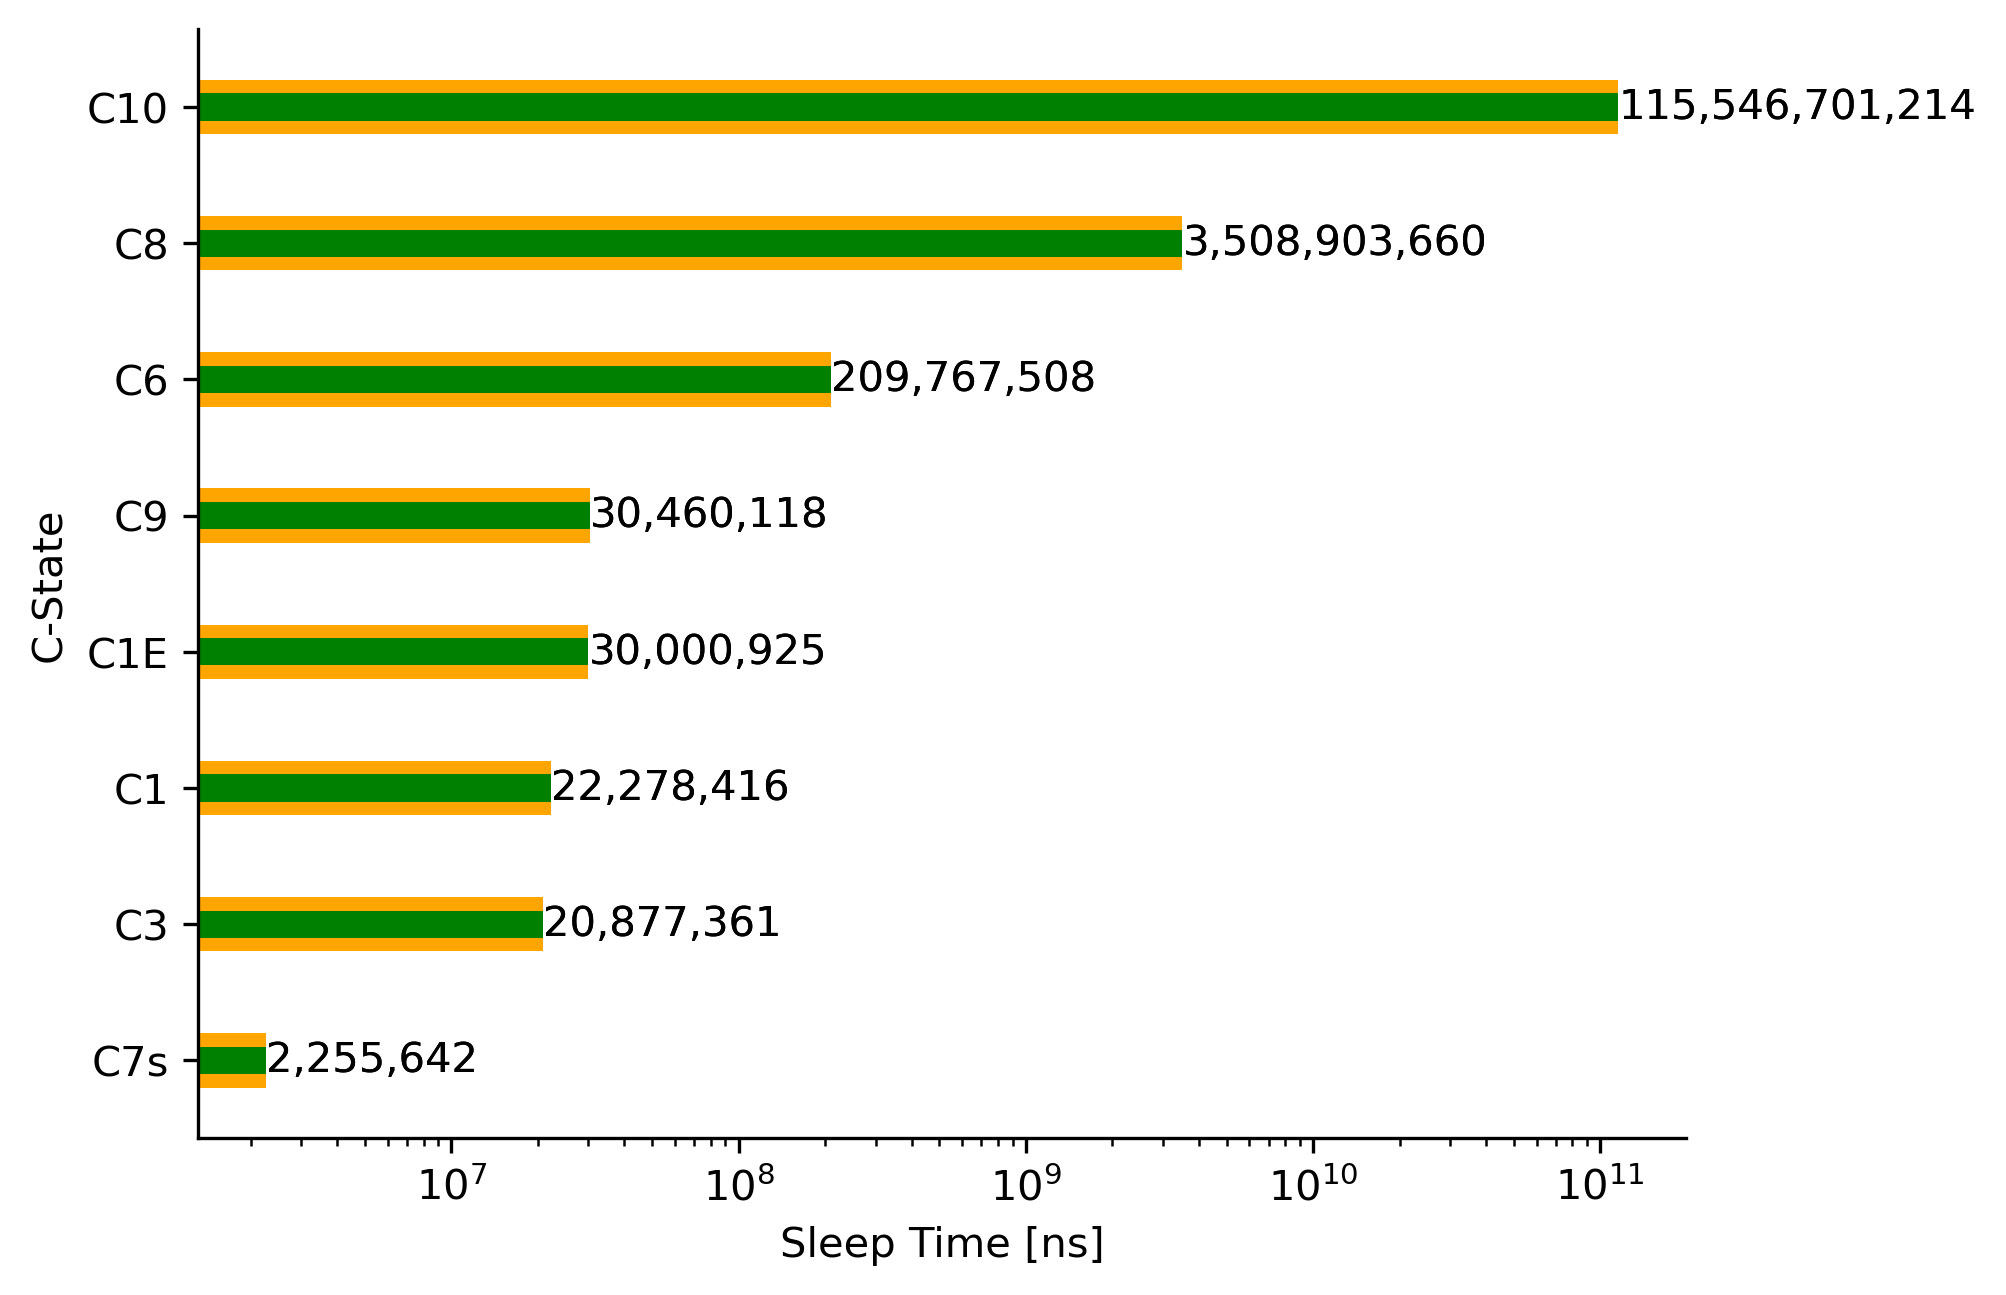
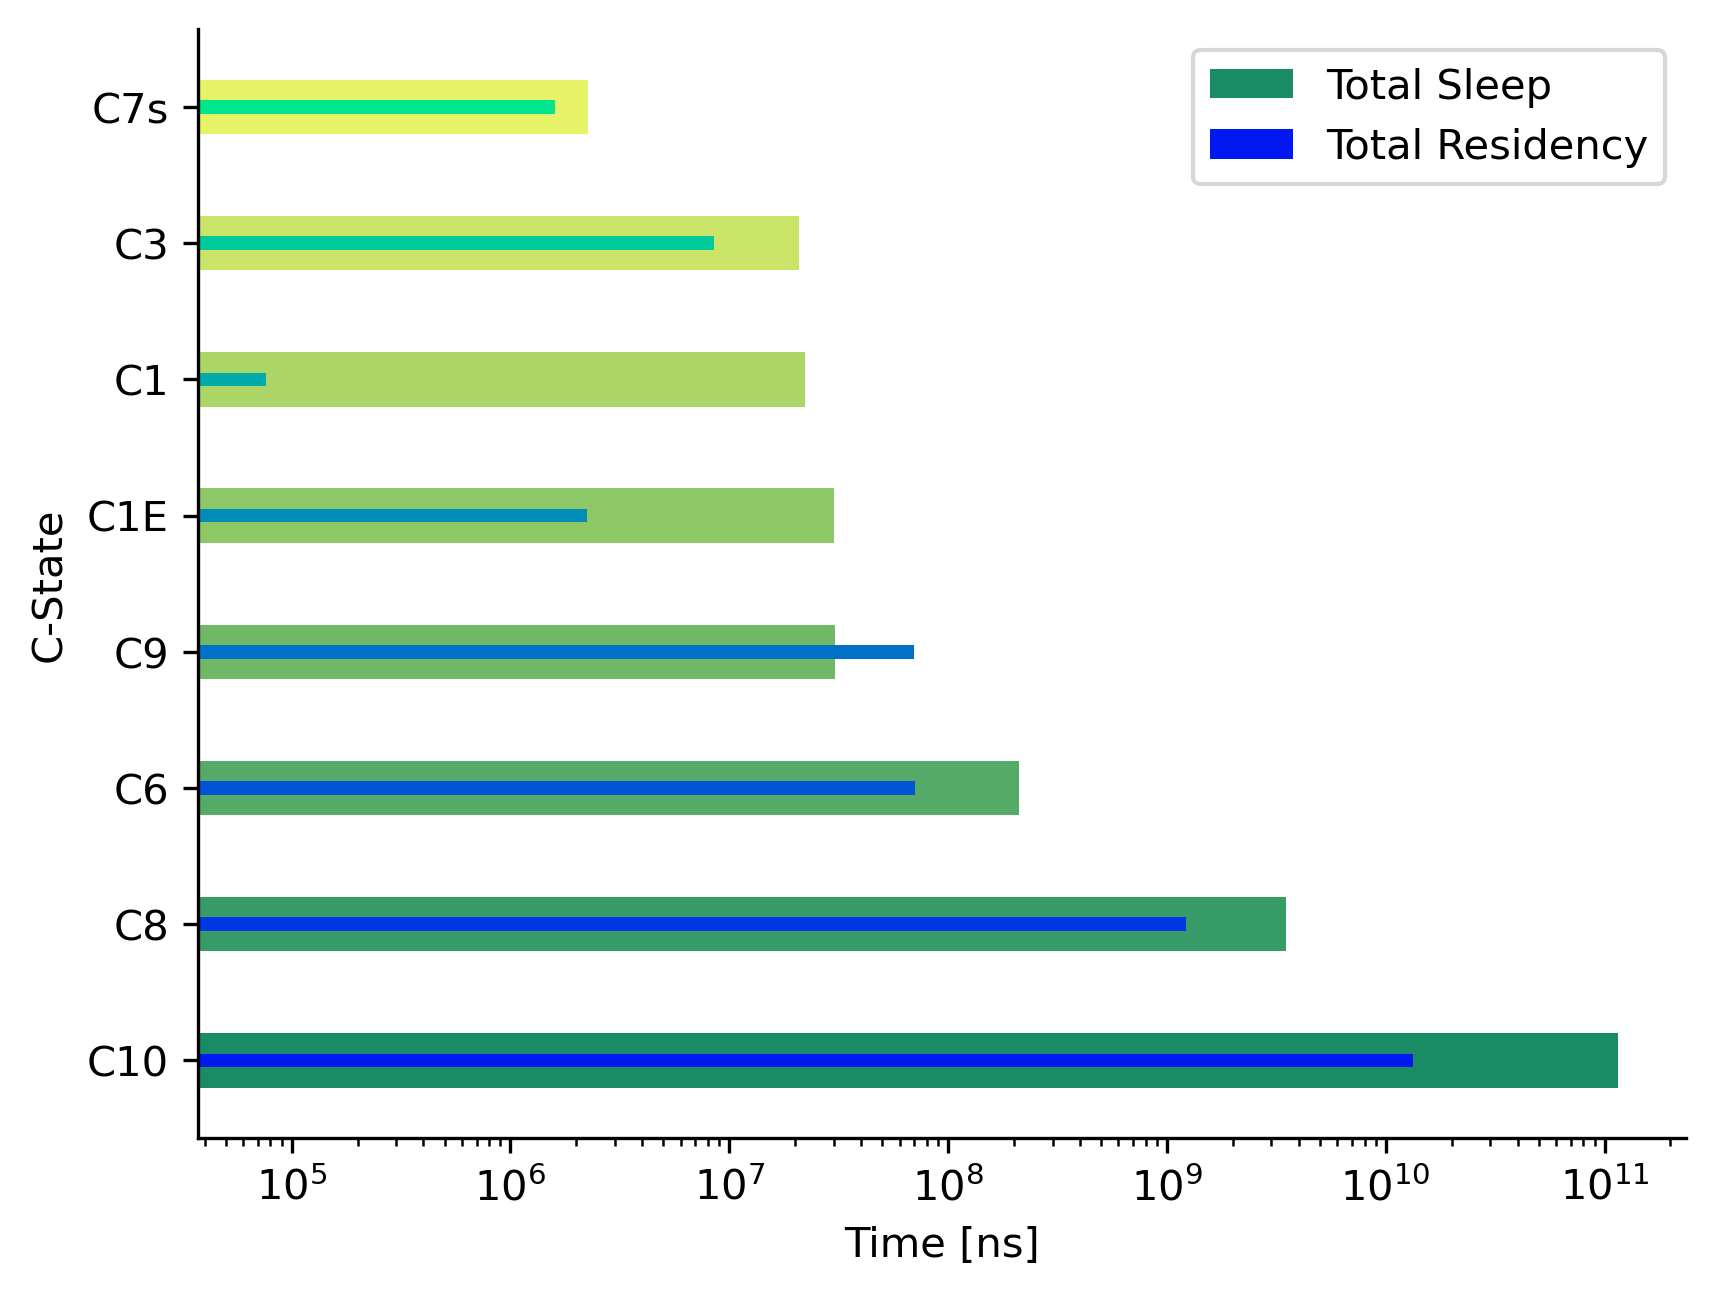
idle-governor: added residency for bar

diff --git a/images/idle-governor/idle-governor-cstate-bar.py b/images/idle-governor/idle-governor-cstate-bar.py
@@ -24,34 +24,38 @@ print(f'WARNING: only using residencies of {RES_CPU}!')
 residencies = residencies[RES_CPU]
 
 # Group by C-State and sum the sleeping times
-grouped_data = df.groupby(['C-State']).sum('Sleep[ns]').reset_index()
+grouped_data = df.groupby(by='C-State').agg({'Sleep[ns]' : 'sum', 'C-State' : 'size'})
+grouped_data = grouped_data.rename(columns={'C-State' : 'Entries'}).reset_index()
+#grouped_data = df.groupby(['C-State']).sum('Sleep[ns]').reset_index()
 for res in residencies.items():
-    grouped_data.loc[grouped_data['C-State'] == res[1]['name'], 'Residency'] = res[1]['residency']
-#TODO: remove columns drop, if residency has been visualized correctly
-grouped_data = grouped_data.drop(columns='Residency')
+    grouped_data.loc[grouped_data['C-State'] == res[1]['name'], 'Residency'] = int(res[1]['residency'])
 
 # Sort the data by Sleep Time in descending order
 sorted_data = grouped_data.sort_values(by='Sleep[ns]', ascending=False)
 
 # Parameters for Grouped Barchart
 width = 0.4
+sleep_colors = plt.cm.summer(np.linspace(0.1, 0.9, len(grouped_data)))
+res_colors = plt.cm.winter(np.linspace(0.1, 0.9, len(grouped_data)))
 
 # Creating a sorted 90% rotated bar chart with logarithmic scale
 fig, ax = plt.subplots()
-ax.barh(sorted_data['C-State'], sorted_data['Sleep[ns]'], width, log=True, color='orange')
-#TODO: use residency time for second bar
-ax.barh(sorted_data['C-State'], sorted_data['Sleep[ns]'], width/2, log=True, color='green')
+sleep_bar = ax.barh(sorted_data['C-State'], sorted_data['Sleep[ns]'], width, log=True, label='Total Sleep', color=sleep_colors)
+res_bar = ax.barh(sorted_data['C-State'], sorted_data['Residency']*1000*sorted_data['Entries'], width/4, log=True, label='Total Residency', color=res_colors)
 
 # format axes
 ax.spines['top'].set_visible(False)
 ax.spines['right'].set_visible(False)
 
-for c in ax.containers:
-    ax.bar_label(c, fmt='{:,.0f}')
+#for c in ax.containers:
+#    ax.bar_label(c, fmt='{:,.0f}')
+#ax.bar_label(sleep_bar, fmt='{:,.0f}')
+#ax.bar_label(res_bar, label_type='edge', fmt='{:,.0f}')
 
-plt.xlabel('Sleep Time [ns]')
+
+plt.xlabel('Time [ns]')
 plt.ylabel('C-State')
-plt.gca().invert_yaxis()
+plt.legend()
 
 print(f'generate {FILE_PDF}')
 plt.savefig(FILE_PDF, dpi=300, bbox_inches='tight')
